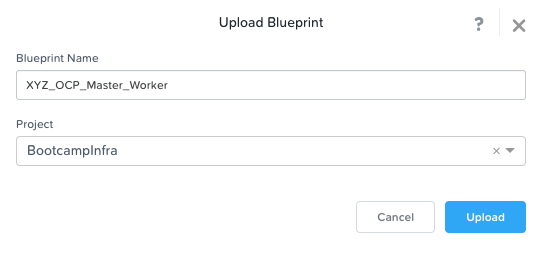
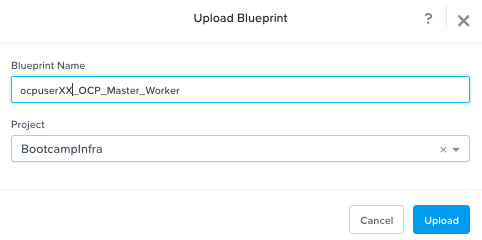
final updates to OCP NCM deployment

diff --git a/docs/ocp_ntnx_hci/ocp_vms.md b/docs/ocp_ntnx_hci/ocp_vms.md
@@ -9,23 +9,23 @@ In this section we will deploy a OCP cluster using Nutanix Calm.
 
 As discussed in the previous section about the Calm blueprints,
 
-1.  Blueprint 1 (XYZ_OCP_Prov_VM) - provisions a OCP provisioning VM with Calm action to deploy OCP
-2.  Blueprint 2 (XYZ_OCP_Master_Worker) - is called by a Calm action in `Blueprint 1` with all the necessary information that `Blueprint 2` needs to run
+1.  Blueprint 1 (ocpuserXX_OCP_Prov_VM) - provisions a OCP provisioning VM with Calm action to deploy OCP
+2.  Blueprint 2 (ocpuserXX_OCP_Master_Worker) - is called by a Calm/NCM action in `Blueprint 1` with all the necessary information that `Blueprint 2` needs to run
 
-Since we sucessfully setup OCP provisioning VM, we have to do the following to proceed:
+Since we successfully setup OCP provisioning VM, we have to do the following to proceed:
 
 1.  Configure OCP VM Blueprint for environment information
 2.  Call the `Deploy OCP` action in Blueprint 1 to deploy OCP cluster
 
 ## Configuring OCP VM Blueprint
 
-In this section we will configure the environemnt for the OCP VM blueprint to run. This will include the following:
+In this section we will configure the environment for the OCP VM blueprint to run. This will include the following:
 
 -   Credentials (SSH Private Key) for the services
 -   Confirming OCP DNS endpoint for the services
 -   NICs are auto selected during execution
 
-:::caution Are Calm endpoints setup?
+:::caution Are the Calm endpoints setup and ready?
 
 Calm automatically assigns endpoint to Calm Actions as endpoint is created in your previous labs Calm endpoint section. It is important to confirm end points for actions in the lab.
 
@@ -37,20 +37,30 @@ Calm automatically assigns endpoint to Calm Actions as endpoint is created in yo
 
     We need to configure network and credentials for the blueprint so it can be deployed in your HPOC/SPOC.
 
-1.  Select your Provisioning VM `XYZ_OCP_Master_Worker` blueprint
+1.  Select your Provisioning VM `ocpuserXX_OCP_Master_Worker` blueprint
 
 2.  Click on **Credentials** (next to Save)
 
- 3.  Copy the same **Private Key** that you generated from the previous section and paste the generated primary key in the bluprints credential called **CRED**
+ 3.  Copy the same **Private Key** that you generated from the previous section and paste the generated primary key in the blueprints credential called **CRED**
 
     ![](ocp_vms_images/ocp_bp_save_cred.png)
 
 4.  Click on **Save**
 
-5.  Click on **Back** to return to the blueprints main window
+### Configure Nutanix Cluster for OCP VMs
 
-6.  You will notice a few warnings for KUBEADMIN and KUBECONFIG
-    variables. These can be ignored as they will be auto-generated.
+We will configure the cluster on which each of the OCP VM (Calm Services) should be hosted.
+
+1. Select the **Worker** service
+2. Under VM tab, choose your assigned cluster PHX-POCXXX 
+   
+   ![](ocp_vms_images/ocp_bp_service_cluster.png)
+
+3. Repeat this for Master, LB_DNS and bootstrap VMs to assign clusters for them
+
+4.  Click on **Back** to return to the blueprints main window
+
+### Configure Endpoints for Tasks
 
 Now we will check if OCP DNS endpoints are configured for the services.
 
@@ -61,23 +71,22 @@ Now we will check if OCP DNS endpoints are configured for the services.
 
     ![](ocp_vms_images/ocp_service_ep_confirm.png)
 
-3.  Confirm that the endpoint is the **OCP DNS Integration** that you
-    previously configured in `endpoint`{.interpreted-text role="ref"}
-    section
+3.  Confirm that the endpoint is the **autoad** that you
+    previously confirmed
 
-4.  Confirm the **OCP DNS Integration** for **Delete DNS Entry** task
+4.  Confirm the **autoad** for **Delete DNS Entry** task
 
-5.  Confirm the **OCP DNS Integration** endpoints for **Create DNS Entry** and **Delete DNS Entry** for the following services:
+5.  Confirm the **autoad** endpoints for **Create DNS Entry** and **Delete DNS Entry** for the following services:
 
     -   Bootstrap
     -   Master
 
 6.  If the endpoint is not assigned properly, correct the condition
 
-7.  Save the blueprint and confirm there are no validation errors
-    (warnings about KUBECONFIG (runtime variable) can be ignored)
+7.  Save the blueprint and confirm there are no validation errors (warnings about KUBECONFIG (runtime variable) can be ignored)
 
     ![](ocp_vms_images/ocp_bp_save_validation.png)
+
 
 ## Deploying OCP Cluster
 
@@ -101,10 +110,10 @@ Now we will check if OCP DNS endpoints are configured for the services.
 
     -   **Number of Workers** - 2
     -   **OCP_PULL_SECRET** - download/copy pull secret this from your Red Hat Portal [Login](https://console.redhat.com/openshift/install/pull-secret) (you will need Red Hat Portal Access)
-    -   **OCP_SUBDOMAIN** - Initials1 (e.g. **xyz1**)
-    -   **OCP_MACHINE_NETWORK** - provide your Primary network address for your HPOC/SPOC (e.g. 10.38.2.64/26 ) - check in your cluster reservation email/webpage
-    -   **OCP_BP** - name of the OCP_Master_Worker `blueprint2` that you
-        uploaded (e.g. XYZ_OCP_Master_Worker)
+    -   **OCP_SUBDOMAIN** - ocpuserXX (e.g. **ocpuser01**)
+    -   **OCP_MACHINE_NETWORK** - provide your Primary network address for your HPOC/SPOC (e.g. 10.38.2.64/26 ) - check in your cluster reservation [lookup](https://lookup.howntnx.win) webpage
+    -   **OCP_BP** - name of the ocpuserXX_OCP_Master_Worker `blueprint2` that you
+        uploaded (e.g. ocpuserXX_OCP_Master_Worker)
 
     :::caution Check your subdomain/ocp cluster name?
    

diff --git a/docs/ocp_ntnx_hci/prov_vm.md b/docs/ocp_ntnx_hci/prov_vm.md
@@ -5,7 +5,30 @@ title: "Deploy Provisioning VM"
 
 ## Configure Provisioning VM Blueprint
 
-Now lets configure and deploy Provisioning VM
+Before you proceed with the creating the Provisioning VM, you will need a SSH key pair
+
+```mdx-code-block
+<details>
+<summary>Instructions to create SSH key pair</summary>
+<div>
+<body>
+```
+Logon to your UserXX-LinuxToolsVM
+- Username -
+``` bash
+ssh-keygen -t rsa -b 2048 -f ~/.ssh/ocp   # << accept all default answers
+ls -l ~/.ssh/
+## Output here
+~/.ssh/ocp.pub  
+~/.ssh/ocp      # << use this private key in the blueprints
+```
+```mdx-code-block
+</body>
+</div>
+</details>
+```
+
+Now lets configure and deploy Provisioning VM:
 
 1.  In **Prism Central** > **Services** > **Calm**
 
@@ -17,62 +40,29 @@ Now lets configure and deploy Provisioning VM
 
     :::
 
-3.  Select your Provisioning VM `XYZ_OCP_Prov_VM` blueprint
+3.  Select your Provisioning VM `ocpuserXX_OCP_Prov_VM` blueprint
 
 We need to configure network and credentials for the blueprint so it can be deployed in your HPOC/SPOC.
 
 1.  Select the Provisioning_VM service
+   
+2.  Under Cluster, select your assigned HPOC cluster (E.g. PHX-POCXXX)
 
-2.  In the Provisioning_VM service\'s VM properties, Choose **Primary**
-    as the NIC 1
+3.  In the Provisioning_VM service's VM properties, Choose **Primary** as the NIC 1
 
     ![](prov_vm_images/ocp_bp_save.png)
 
-3.  Click on **Save**
+4.  Click on **Save**
 
-4.  Click on **Credentials** (next to **Save**)
+5.  Click on **Credentials** (next to **Save**)
 
-5.  Go to this [URL](https://travistidwell.com/jsencrypt/demo/) to create a RSA private key
+6.  Copy and paste the private key (`~/.ssh/ocp`) that created earlier here 
 
-6.  Choose **2048 bit** as the key size and click on **Generate New Keys**
+7.  Click on **Save**
 
-    :::caution
+8.  Click on **Back** to return to the blueprints main window
 
-    **Copy the private key and public key to somewhere safe (notepad/notes) on your PC/Mac**
-
-    :::
-
-    ![](prov_vm_images/generate_rsa_key.png)
-
-    :::tip
-  
-    You can use any online ssh key generator if you are using Windows.
-
-    Execute the following commands in you are in a Linux / Mac environment to generate a private key.
-
-    ``` bash
-    ssh-keygen -t rsa -b 2048 -C "Created for OCP Workshop"
-
-    # follow prompts 
-    # do not specify passphrase
-    # once completed run the following command
-
-    cat id_rsa
-
-    # copy the contents of the id_rsa file to your Calm blueprint
-    ```
-    :::
-
-7.  Copy the **Private Key** and paste the generated primary key in the
-    bluprint's credential called **CRED**
-
-    ![](prov_vm_images/ocp_bp_save_cred.png)
-
-9.  Click on **Save**
-
-10. Click on **Back** to return to the blueprints main window
-
-11. You will notice a few warnings for KUBEADMIN and KUBECONFIG
+9.  You will notice a few warnings for KUBEADMIN and KUBECONFIG
     variables. These can be ignored as they will be auto-generated.
 
     ![](prov_vm_images/ocp_bp_warnings.png)
@@ -83,7 +73,7 @@ Now it is time to launch the provisioning VM blueprint.
 
 1.  Click on **Launch** button
 
-2.  Give the application a name *Initials*\_Prov_VM
+2.  Give the application a name **ocpuserXX_Prov_VM** (E.g ocpuser01_Prov_VM)
 
     ![](prov_vm_images/ocp_prov_vm_bp_launch.png)
 
@@ -98,12 +88,17 @@ Now it is time to launch the provisioning VM blueprint.
 
     ![](prov_vm_images/ocp_prov_vm_audit.png)
 
-7.  **Optional step** - You are also able to ssh into the provisioning
-    VM using the application\'s (if you are curious to see the
-    downloaded files for OCP setup) \> **Services** \> **Open Terminal**
-
+    ```mdx-code-block
+    <details>
+    <summary>Curious about what is happening inside the provisioning VM?</summary>
+    <div>
+    <body>
+    ```
+    You are able to ssh into the provisioning
+    VM using the NCM/Calm **Application** page  > **Services** > **Open Terminal**
+    
     ![](prov_vm_images/ocp_prov_vm_ssh.png)
-
+    
     ```zsh
     [core@Openshift-provisioning-0-211225-210356 ~]$ ls -lRh openshift/
     openshift/:
@@ -115,14 +110,19 @@ Now it is time to launch the provisioning VM blueprint.
     -rw-r--r--. 1 core   core    954 Nov  4 19:41 README.md
     -rw-rw-r--. 1 core   core   988M Dec 26 05:12 rhcos-live.x86_64.iso ## << this is RHCOS ISO
     drwxrwxr-x. 2 apache apache  105 Dec 26 05:12 web
-
+    
     openshift/web:
     total 144M
     -rw-rw-r--. 1 apache apache 7.3M Dec 26 05:12 coreos-installer 
     -rw-rw-r--. 1 apache apache  48M Dec 26 05:11 openshift-client-linux.tar.gz ## << this is OCP Client
     -rw-rw-r--. 1 apache apache  89M Dec 26 05:11 openshift-install-linux.tar.gz ## << this is OCP Server
     ```
-
+    ```mdx-code-block
+    </body>
+    </div>
+    </details>
+    ```
+    
 Now we have the provisioning VM up and running. This section of the lab is done.
 
 ![](prov_vm_images/ocp_lab_status_1.png)

diff --git a/docs/ocp_ntnx_hci/import_bp.md b/docs/ocp_ntnx_hci/import_bp.md
@@ -81,9 +81,9 @@ below) you chose while booking the cluster in [RX](https://rx.corp.nutanix.com/)
 
 Now we can proceed to setup pre-requistes and deploying blueprints.
 
-## Set up Calm Endpoint 
+## Confirm NCM/Calm Endpoint 
 
-Let's create a Calm endpoint for authentication, authorization and DNS updates for OCP cluster.
+<!-- Let's create a Calm endpoint for authentication, authorization and DNS updates for OCP cluster.
 
 1.  In **Prism Central** > **Services** > **Calm**
 
@@ -100,7 +100,7 @@ Let's create a Calm endpoint for authentication, authorization and DNS updates f
     -   **Project** - BootcampInfra
     -   **Type** - Windows
     -   **Target Type** - IP Addresses
-    -   **IP Address** - Your AutoAD VM IP (get from list of VMs)
+    -   **IP Address** - AutoAD (get from list of VMs)
     -   **Connection Protocol** - HTTP (default)
     -   **Port** - 5985 (default)
     -   **Username** - <administrator@ntnxlab.local>
@@ -109,13 +109,31 @@ Let's create a Calm endpoint for authentication, authorization and DNS updates f
 
     ![](import_bp_images/ocp_create_endpoint.png)
 
-5.  Click **Save**
+5.  Click **Save** -->
+
+Let's ensure that an endpoint exists for creation of DNS entries. 
+
+This endpoint point to the AutoAD ``Active Directory`` (AD) server which has DNS role installed. This AD server and NCM endpoint are pre-deployed in your HPOC cluster. 
+
+1.  In **Prism Central** > **Services** > **Calm**
+
+2.  Click on **Endpoint**
+
+3.  Click on **autoad** endpoint 
+   
+4.  Make sure the IP addresses is pointing to your AD server
+
+:::danger
+
+If this NCM Endpoint is not pointing to you AD server, let your lab instructor know and they will help you resolve the issue.
+
+:::
 
 ## Upload Blueprints
 
-1.  Download blueprint1 by right-clicking on this link [Provisioning VM](https://raw.githubusercontent.com/nutanix-japan/ocp-gitp/main/docs/ocp_ntnx_hci/XYZ_OCP_Prov_VM.json)
+1.  Download blueprint1 by right-clicking on this link [Provisioning VM](https://raw.githubusercontent.com/nutanix-japan/ocp-gitp/main/docs/ocp_ntnx_hci/XYZ_OCP_Prov_VM.json) and choosing **Download Linked File** as option. Your PC/Mac should present the file extension as `json` and continue with this.
 
-2.  Download blueprint2 by right-clicking on this link [OCP Master Worker](https://raw.githubusercontent.com/nutanix-japan/ocp-gitp/main/docs/ocp_ntnx_hci/XYZ_OCP_Master_Worker.json) and save as *Initials*_OCP_Master_Worker.json file (e.g XYZ_OCP_Master_Worker.json)
+2.  Download blueprint2 by right-clicking on this link [OCP Master Worker](https://raw.githubusercontent.com/nutanix-japan/ocp-gitp/main/docs/ocp_ntnx_hci/XYZ_OCP_Master_Worker.json) and save as *Initials*_OCP_Master_Worker.json file (e.g XYZ_OCP_Master_Worker.json)Your PC/Mac should present the file extension as `json` and continue with this.
 
 3.  In **Prism Central** > **Services** > **Calm**
 
@@ -125,7 +143,7 @@ Let's create a Calm endpoint for authentication, authorization and DNS updates f
 
 6.  Fill the following Details
 
-    -   **Blueprint Name** - XYZ_OCP_Prov_VM
+    -   **Blueprint Name** - ocpuserXX_OCP_Prov_VM (E.g. ocpuser01_OCP_Prov_VM)
     -   **Project** - BootcampInfra
 
     ![](import_bp_images/ocp_upload_bp.png)
@@ -135,8 +153,8 @@ Let's create a Calm endpoint for authentication, authorization and DNS updates f
 8.  Return to **Blueprints** and upload OC Master Worker
     Initials_OCP_Master_Worker.json blueprint
 
-    -   **Blueprint Name** - XYZ_OCP_Master_Worker
-    -   **Project** - BootcampInfra
+    -   **Blueprint Name** - ocpuserXX_OCP_Master_Worker (E.g.ocpuser01_OCP_Master_Worker)
+    -   **Project** - BootcampInfra 
 
     ![](import_bp_images/ocp_upload_bp_mw.png)
 
